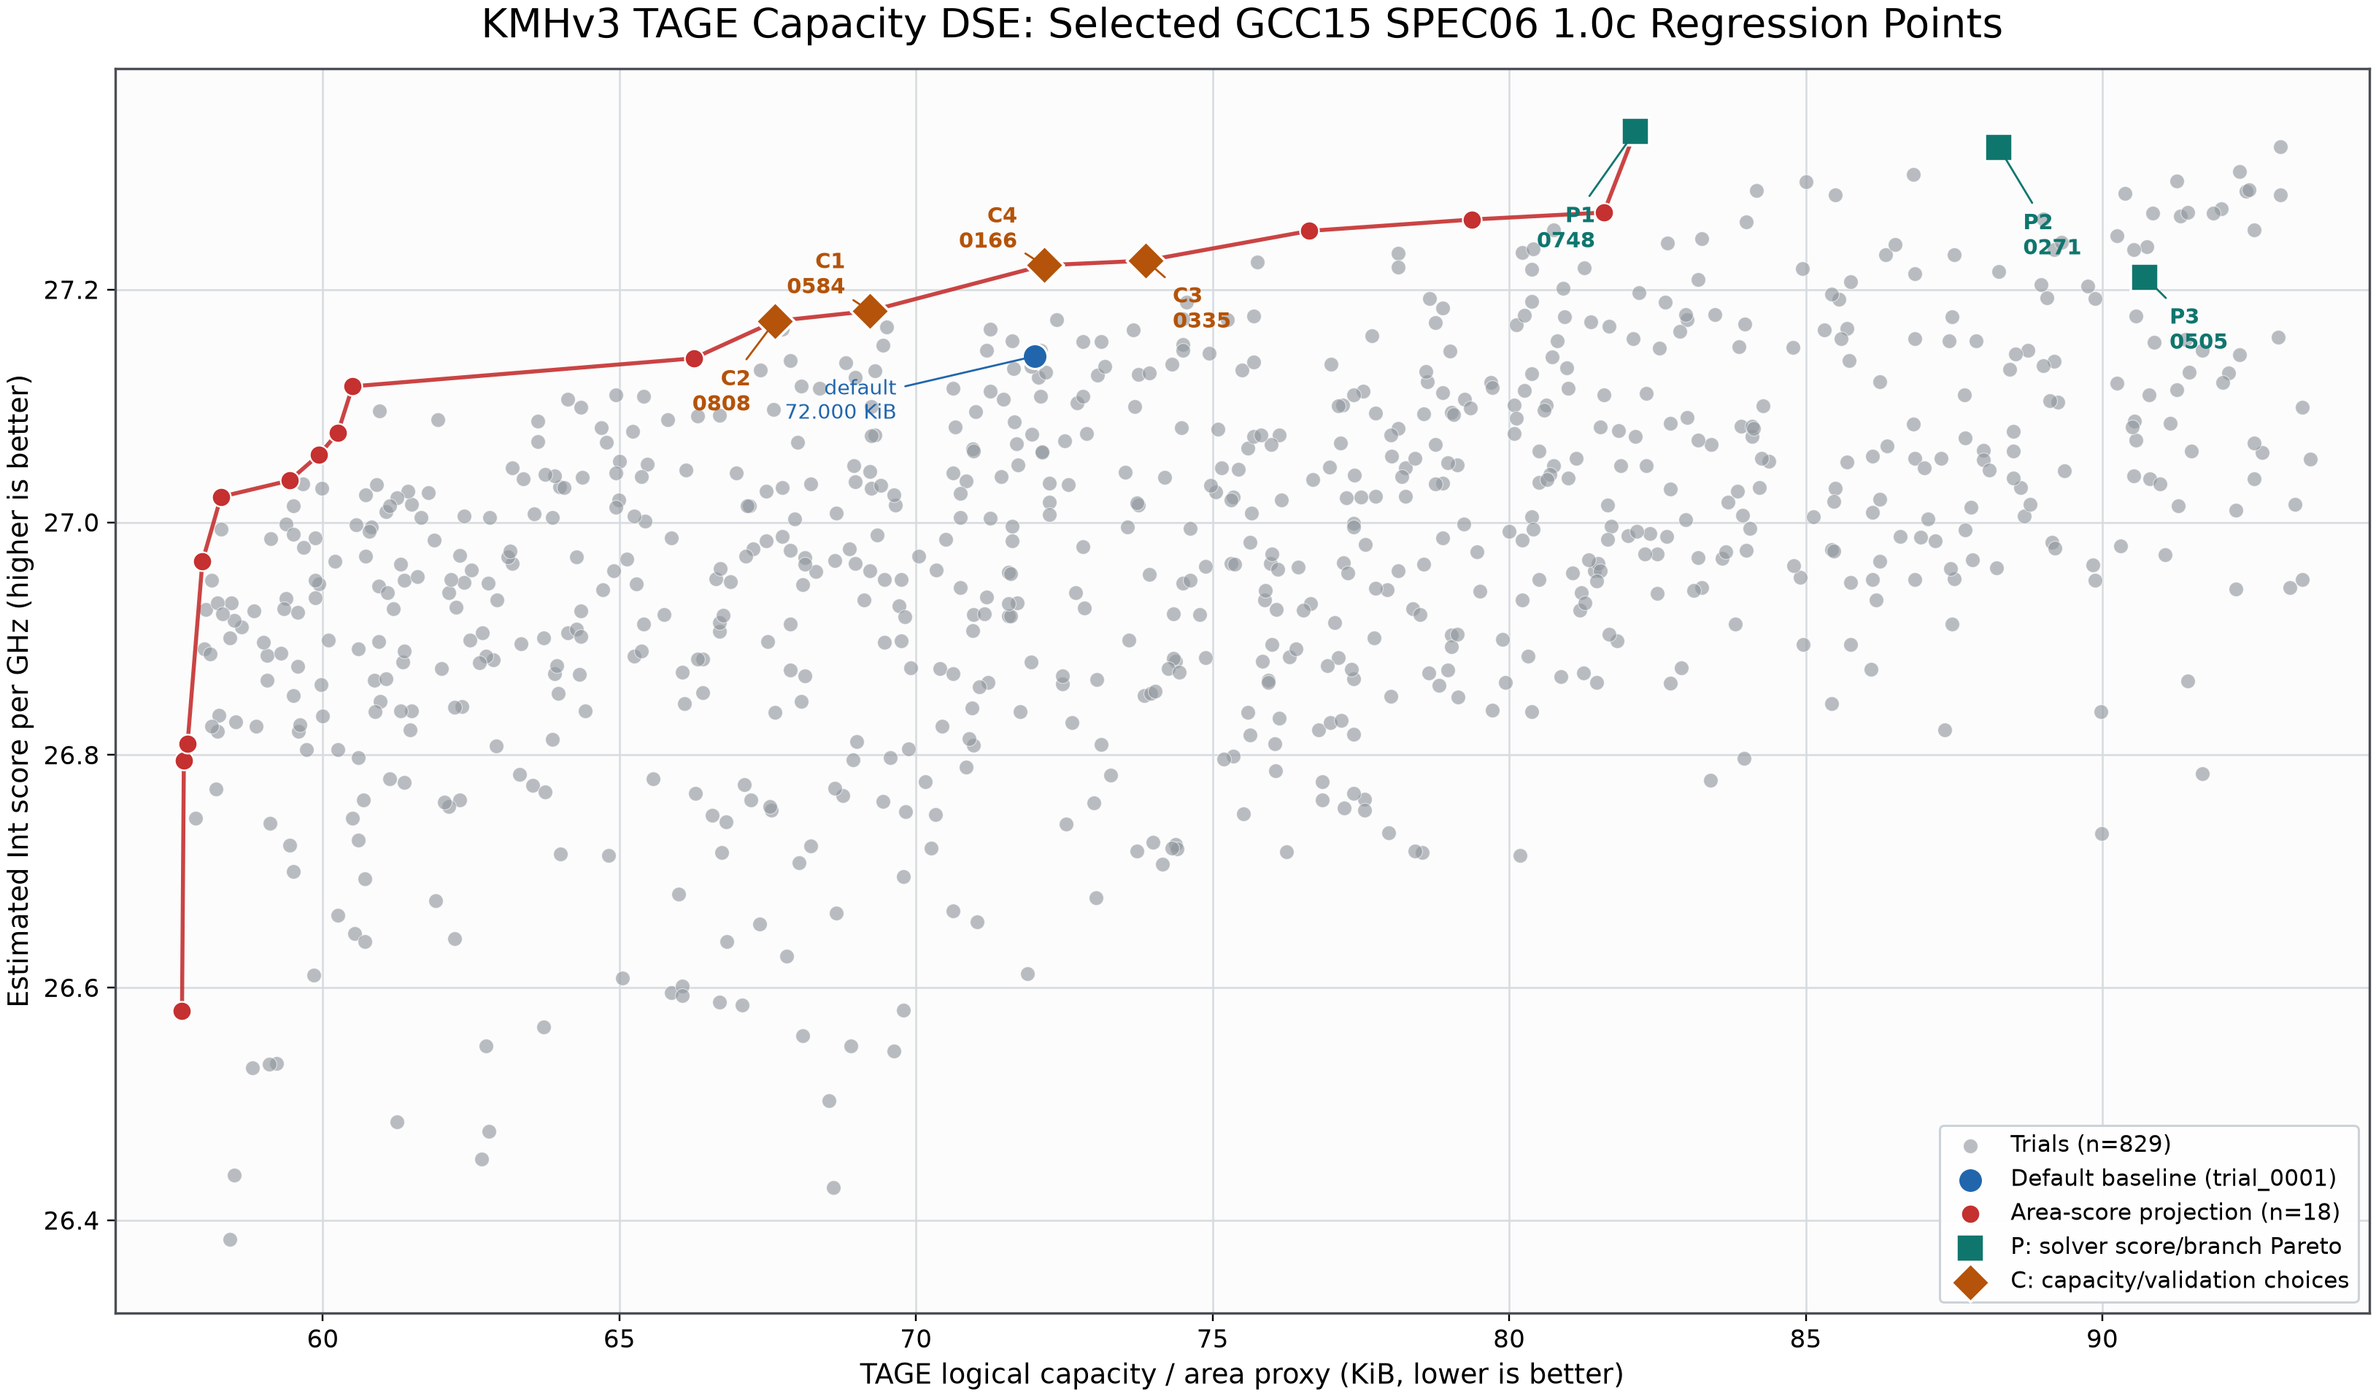
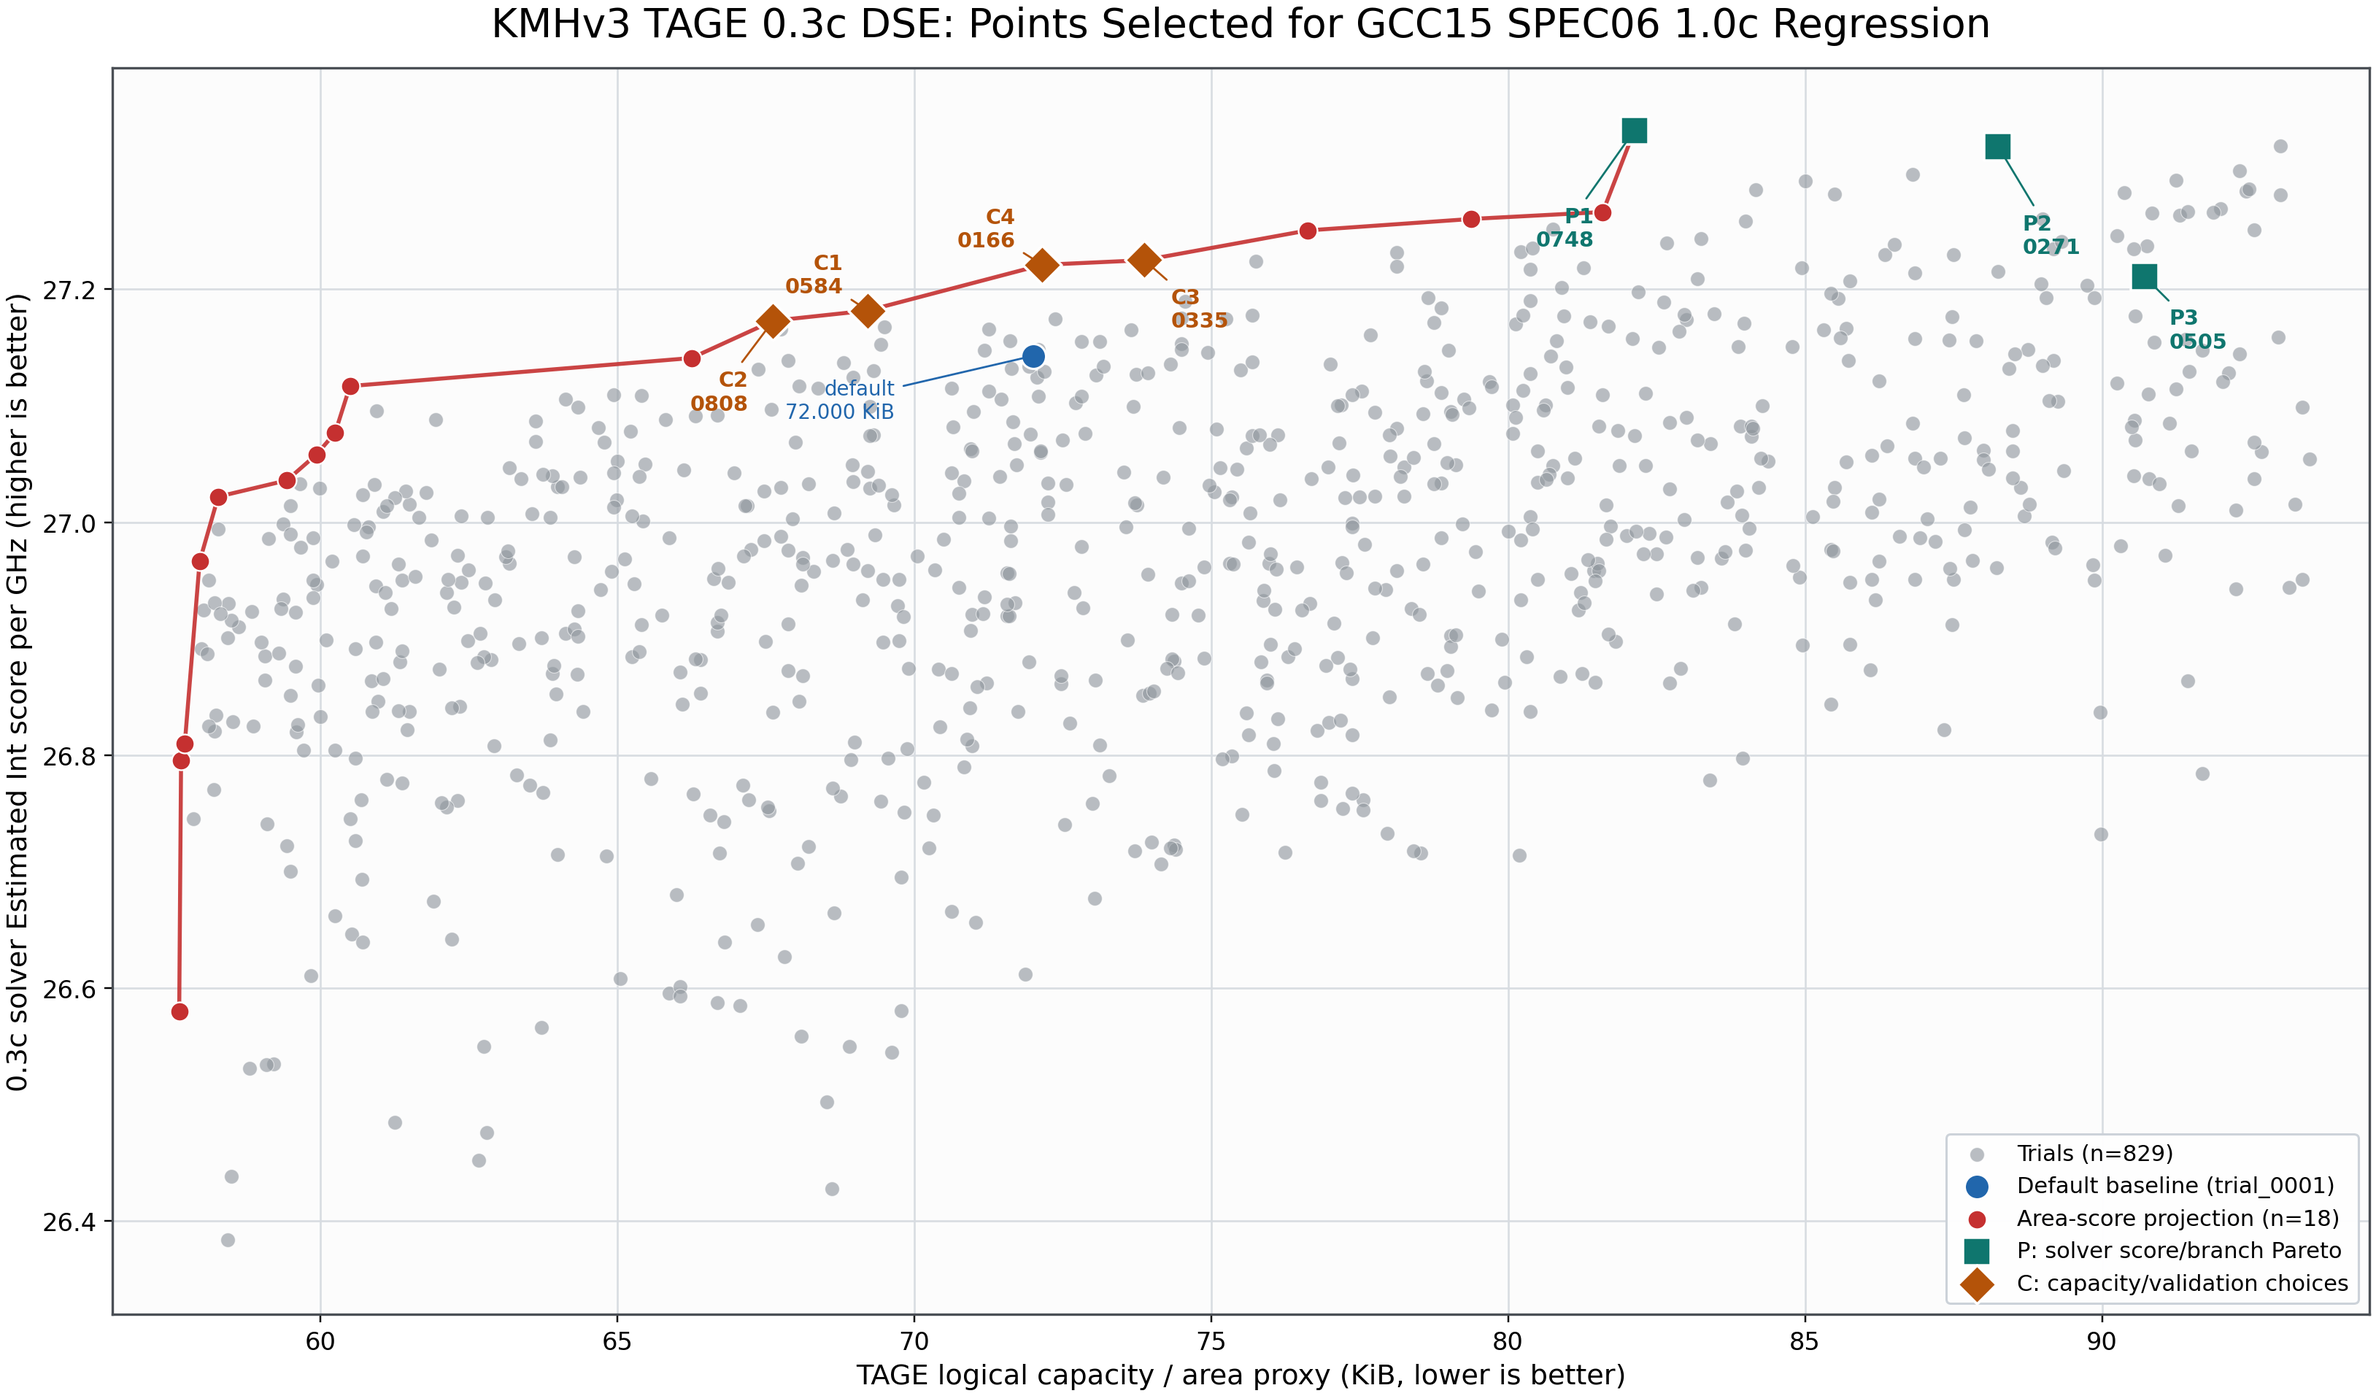
cpu: Audit TAGE SPECint selections
Validate formal Pareto labels, near-default ranking, and effective CI configuration.

diff --git a/docs/Gem5_Docs/frontend/generate_tage_capacity_8table_t2t4_selection_figure.py b/docs/Gem5_Docs/frontend/generate_tage_capacity_8table_t2t4_selection_figure.py
@@ -1,5 +1,5 @@
 #!/usr/bin/env python3
-"""Render the solver DSE plot with GCC15 SPEC06 1.0c regression selections."""
+"""Render 0.3c solver DSE points selected for GCC15 SPEC06 1.0c regression."""
 
 import argparse
 from dataclasses import dataclass
@@ -18,6 +18,12 @@ from generate_tage_capacity_8table_t2t4_dse_figures import (
 
 TEAL = "#0f766e"
 AMBER = "#b45309"
+EXPECTED_SCORE_BRANCH_PARETO = frozenset(
+    {"trial_0271", "trial_0505", "trial_0748"}
+)
+NEAR_BASELINE_MIN_KIB = 70.0
+NEAR_BASELINE_MAX_KIB = 75.0
+NEAR_BASELINE_SCORE_RANKS = {"C3": 0, "C4": 1}
 
 
 @dataclass(frozen=True)
@@ -44,7 +50,11 @@ SELECTIONS = (
 
 def selected_trials(trials: list[Trial]) -> list[tuple[Selection, Trial]]:
     by_id = {trial.trial_id: trial for trial in trials}
-    missing = [selection.trial_id for selection in SELECTIONS if selection.trial_id not in by_id]
+    missing = [
+        selection.trial_id
+        for selection in SELECTIONS
+        if selection.trial_id not in by_id
+    ]
     if missing:
         raise ValueError(f"selected trials missing from artifact: {missing}")
     if len({selection.label for selection in SELECTIONS}) != len(SELECTIONS):
@@ -54,15 +64,84 @@ def selected_trials(trials: list[Trial]) -> list[tuple[Selection, Trial]]:
     return [(selection, by_id[selection.trial_id]) for selection in SELECTIONS]
 
 
-def plot(trials: list[Trial], output_path: Path) -> None:
+def score_branch_pareto(trials: list[Trial]) -> set[str]:
+    return {
+        candidate.trial_id
+        for candidate in trials
+        if not any(
+            other is not candidate
+            and other.score >= candidate.score
+            and other.branch_mispredicts <= candidate.branch_mispredicts
+            and (
+                other.score > candidate.score
+                or other.branch_mispredicts < candidate.branch_mispredicts
+            )
+            for other in trials
+        )
+    }
+
+
+def validate_selection(trials: list[Trial]) -> list[tuple[Selection, Trial]]:
+    selections = selected_trials(trials)
+    selected_by_label = {selection.label: trial for selection, trial in selections}
+    formal_pareto = score_branch_pareto(trials)
+    if formal_pareto != EXPECTED_SCORE_BRANCH_PARETO:
+        raise ValueError(
+            "score/branch Pareto differs from audited artifact: "
+            f"{sorted(formal_pareto)}"
+        )
+    selected_pareto = {
+        trial.trial_id
+        for selection, trial in selections
+        if selection.category == "pareto"
+    }
+    if selected_pareto != formal_pareto:
+        raise ValueError("P labels do not match the formal score/branch Pareto set")
+
+    area_score = area_score_frontier(trials)
+    if len(area_score) != EXPECTED_AREA_SCORE_FRONTIER:
+        raise ValueError("capacity-score frontier differs from audited artifact")
+    area_score_ids = {trial.trial_id for trial in area_score}
+    capacity_selection_ids = {
+        trial.trial_id
+        for selection, trial in selections
+        if selection.category == "capacity"
+    }
+    if not capacity_selection_ids <= area_score_ids:
+        raise ValueError("C labels must be on the capacity-score projection")
+
+    near_baseline = sorted(
+        (
+            trial
+            for trial in trials
+            if not trial.is_baseline
+            and NEAR_BASELINE_MIN_KIB <= trial.capacity_kib <= NEAR_BASELINE_MAX_KIB
+        ),
+        key=lambda trial: (-trial.score, trial.trial_id),
+    )
+    for label, expected_rank in NEAR_BASELINE_SCORE_RANKS.items():
+        if (
+            len(near_baseline) <= expected_rank
+            or near_baseline[expected_rank].trial_id
+            != selected_by_label[label].trial_id
+        ):
+            raise ValueError(
+                f"{label} is not score rank #{expected_rank + 1} in the "
+                f"{NEAR_BASELINE_MIN_KIB:g}--{NEAR_BASELINE_MAX_KIB:g} KiB band"
+            )
+    return selections
+
+
+def plot(
+    trials: list[Trial],
+    selections: list[tuple[Selection, Trial]],
+    output_path: Path,
+) -> None:
     import matplotlib.pyplot as plt
 
     baseline = next(trial for trial in trials if trial.is_baseline)
     candidates = [trial for trial in trials if not trial.is_baseline]
     frontier = area_score_frontier(trials)
-    if len(frontier) != EXPECTED_AREA_SCORE_FRONTIER:
-        raise ValueError("capacity-score frontier differs from audited artifact")
-    selections = selected_trials(trials)
 
     fig, ax = plt.subplots(figsize=(14.8, 8.7), layout="constrained")
     fig.patch.set_facecolor("white")
@@ -164,12 +243,15 @@ def plot(trials: list[Trial], output_path: Path) -> None:
         zorder=10,
     )
     ax.set_title(
-        "KMHv3 TAGE Capacity DSE: Selected GCC15 SPEC06 1.0c Regression Points",
+        "KMHv3 TAGE 0.3c DSE: Points Selected for GCC15 SPEC06 1.0c Regression",
         fontsize=18,
         pad=14,
     )
     ax.set_xlabel("TAGE logical capacity / area proxy (KiB, lower is better)", fontsize=12.5)
-    ax.set_ylabel("Estimated Int score per GHz (higher is better)", fontsize=12.5)
+    ax.set_ylabel(
+        "0.3c solver Estimated Int score per GHz (higher is better)",
+        fontsize=12.5,
+    )
     ax.set_xlim(56.5, 94.5)
     ax.set_ylim(26.32, 27.39)
     ax.legend(loc="lower right", frameon=True, framealpha=0.97, edgecolor="#cbd1d8")
@@ -199,10 +281,7 @@ def main() -> None:
     args = parser.parse_args()
 
     trials = read_trials(args.artifact_dir)
-    frontier = area_score_frontier(trials)
-    if len(frontier) != EXPECTED_AREA_SCORE_FRONTIER:
-        raise ValueError("capacity-score frontier differs from audited artifact")
-    selections = selected_trials(trials)
+    selections = validate_selection(trials)
     if args.verify_only:
         labels = ", ".join(
             f"{selection.label}={trial.trial_id}"
@@ -210,10 +289,10 @@ def main() -> None:
         )
         print(
             f"audited {len(trials)} valid trials; "
-            f"area-score frontier: {len(frontier)}; selections: {labels}"
+            f"area-score frontier: {EXPECTED_AREA_SCORE_FRONTIER}; selections: {labels}"
         )
         return
-    plot(trials, args.output)
+    plot(trials, selections, args.output)
     print(f"output={args.output}")
 
 

diff --git a/docs/Gem5_Docs/frontend/generate_tage_capacity_8table_t2t4_dse_figures.py b/docs/Gem5_Docs/frontend/generate_tage_capacity_8table_t2t4_dse_figures.py
@@ -10,6 +10,7 @@ from pathlib import Path
 
 BASELINE_CAPACITY_BITS = 589_824
 SCORE_COLUMN = "max:score_txt:Estimated Int score per GHz"
+BRANCH_MISPREDICT_COLUMN = "min:stats:system.cpu.iew.branchMispredicts"
 EXPECTED_VALID_TRIALS = 830
 EXPECTED_AREA_SCORE_FRONTIER = 18
 
@@ -23,6 +24,7 @@ class Trial:
     trial_id: str
     is_baseline: bool
     score: float
+    branch_mispredicts: float
     capacity_bits: int
 
     @property
@@ -55,6 +57,7 @@ def read_trials(artifact_dir: Path) -> list[Trial]:
                     trial_id=row["trial_id"],
                     is_baseline=is_baseline,
                     score=float(row[SCORE_COLUMN]),
+                    branch_mispredicts=float(row[BRANCH_MISPREDICT_COLUMN]),
                     capacity_bits=(
                         BASELINE_CAPACITY_BITS
                         if is_baseline

diff --git a/docs/Gem5_Docs/frontend/tage_capacity_8table_t2_t4_nsga2_dse_20260821.md b/docs/Gem5_Docs/frontend/tage_capacity_8table_t2_t4_nsga2_dse_20260821.md
@@ -23,9 +23,10 @@
   容量只是此图的 area proxy，不是本次 NSGA-II 目标；红点不能被称为 solver 的
   score/mispredict 前沿。图像已核对为当前仓库
   `tage-capacity-8table-t2t4-dse-2d-20260821.png` 的同一文件。
-- 新搜索固定为 8 张 active TAGE 表，使用 35 个受 TAGE 参数影响的 0.3c slice，
-  比上一次的 22 个 `astar,gobmk,sjeng` slice 多出 13 个
-  `bzip2,gcc,h264ref,perlbench` slice。T2--T4 被设为至少占逻辑容量 50%，
+- 新搜索固定为 8 张 active TAGE 表，使用 35 个受 TAGE 参数影响的 0.3c slice。
+  相比上一轮的 22 个 slice，数量增加 13；`gobmk` 仍为 14 个，但 `astar/sjeng`
+  的构成从 `4/4` 重选为 `5/3`，所以这不是旧 22 个 slice 的严格追加。在此基础上
+  引入了 13 个 `bzip2,gcc,h264ref,perlbench` slice。T2--T4 被设为至少占逻辑容量 50%，
   并获得更高的采样和局部变异优先级；这是一项搜索先验，不是 T2--T4 因果有效的
   证明。
 
@@ -49,7 +50,8 @@ execute-stage 分支错误预测计数；不改编译器、二进制、OS 或运
 相对 [前一轮报告](tage_capacity_nsga2_dse_20260814.md)，这轮变化如下：
 
 1. active table 数从可变空间收缩为固定 8 张表。
-2. workload 从 22 个 `astar,gobmk,sjeng` slice 扩展到 35 个 slice。
+2. workload 由 22 个 `astar,gobmk,sjeng` slice 重选并扩展为 35 个 slice；
+   `astar/sjeng` 构成也由 `4/4` 变为 `5/3`。
 3. 总逻辑容量区间改为 baseline 的 80%--130%，并将 T2--T4 合计容量限制为至少
    50%。
 4. T2--T4 的 sets 可从 `2^7` 到 `2^13`，其余表为 `2^6` 到 `2^11`；变异中 65%
@@ -158,9 +160,10 @@ system.cpu[0].branchPred.tage.numWays
 overlay 可以只覆盖这四个参数，不会改变其他 KMHv3 配置。所有下面 vector 的顺序
 均为 T0 到 T7，且 `numPredictors=8`。
 
-除了三个正式帕累托点，下表加入两个容量-分数投影上的候选。它们不在 solver 的
-score/mispredict 前沿，却在不增大容量的约束下仍优于 baseline，适合作为 1.0c
-泛化验证的低成本对照点。
+除了三个正式帕累托点，下表加入四个容量-分数投影上的候选。C1/C2 用于较小容量的
+对照；C3/C4 则在 70--75 KiB 内按 solver score 排名第 1/2，分别测试该区间的性能
+上界和最接近默认容量的选择。它们不在 solver 的 score/mispredict 前沿，不能被称为
+正式帕累托点。
 
 | 候选 / 用途 | `numPredictors` | `tableSizes` | `TTagBitSizes` | `numWays` | 容量 / T2--T4 share |
 | --- | ---: | --- | --- | --- | --- |
@@ -169,10 +172,13 @@ score/mispredict 前沿，却在不增大容量的约束下仍优于 baseline，
 | P3 `trial_0505`，错误预测极值 | 8 | `[1024, 256, 4096, 4096, 2048, 2048, 256, 512]` | `[15, 11, 8, 11, 17, 18, 14, 13]` | `[2, 1, 4, 3, 4, 2, 1, 1]` | 90.719 KiB / 79.37% |
 | C1 `trial_0584`，低于 baseline 容量的最高 score | 8 | `[128, 1024, 4096, 2048, 512, 1024, 256, 1024]` | `[15, 10, 8, 20, 13, 19, 14, 17]` | `[8, 1, 3, 2, 8, 5, 1, 3]` | 69.219 KiB / 59.23% |
 | C2 `trial_0808`，更低容量且 score/mispredict 均改善 | 8 | `[256, 1024, 2048, 2048, 2048, 1024, 512, 512]` | `[15, 13, 13, 17, 18, 15, 15, 13]` | `[5, 1, 4, 2, 3, 5, 1, 2]` | 67.625 KiB / 68.39% |
+| C3 `trial_0335`，70--75 KiB score #1 | 8 | `[128, 1024, 2048, 2048, 1024, 1024, 512, 1024]` | `[15, 13, 19, 8, 13, 18, 15, 17]` | `[8, 1, 4, 1, 8, 5, 1, 3]` | 73.875 KiB / 61.25% |
+| C4 `trial_0166`，最接近默认、同区间 score #2 | 8 | `[256, 256, 2048, 4096, 2048, 2048, 1024, 2048]` | `[15, 18, 16, 11, 18, 11, 13, 13]` | `[2, 3, 2, 3, 3, 2, 2, 1]` | 72.156 KiB / 71.72% |
 
 相对 solver baseline，C1 的 score 为 `+0.1432%`、错误预测为 `-1.0607%`，容量
-为 `-3.8628%`；C2 的对应变化为 `+0.1111%`、`-1.6314%` 和 `-6.0764%`。它们的
-选择原因是容量-性能取舍，不应误写成正式二目标帕累托结论。
+为 `-3.8628%`；C2 的对应变化为 `+0.1111%`、`-1.6314%` 和 `-6.0764%`。C3/C4 的
+score 分别为 `+0.3027%` 和 `+0.2878%`，错误预测分别为 `-1.5309%` 和 `-1.4715%`；
+它们的选择原因是容量-性能取舍，不应误写成正式二目标帕累托结论。
 
 用于命令行或 `manual-perf.yml` 的单个候选 overlay 形式如下，其中方括号中的值由
 上表对应行替换：
@@ -235,6 +241,10 @@ point 子集都与从
 `spec06_gcc15_rv64gcb_base_260604/json/checkpoints_all.json` 导出的 whitelist
 完全匹配；每个 workload 内先归一化 SimPoint 权重，再按 profile 的 instruction
 count 聚合多个输入。
+
+对五个已完成候选，各 archive 的 `astar_biglakes_8418/m5out/config.ini` 还逐一
+核对了 `numPredictors`、`tableSizes`、`TTagBitSizes` 与 `numWays` 四个生效字段，
+均与上表对应行一致；这比仅从 `metadata.txt` 读取请求的 `extra_args` 更强。
 
 | 标签 | Trial | Actions run | Archive | 归档/Actions 状态 |
 | --- | --- | --- | --- | --- |
@@ -338,7 +348,9 @@ gh workflow run manual-perf.yml \
 
 两条 run 完成后，仍按 baseline 对应的 35 workload / 697 point whitelist 重聚合，并
 要求运行 archive 对 12 个实际 benchmark 有 697 `stats.txt` 和 `completed`、零
-`running`/`abort`、非空 `score.txt`，才将 C3/C4 加入上面的实测表。
+`running`/`abort`、非空 `score.txt`。在加入实测表前，还必须从每条 run 的一个完成
+切片 `m5out/config.ini` 核对四个 TAGE 字段与“求解结果到 gem5 参数的映射”中 C3/C4
+对应行完全一致；仅有 `metadata.txt` 的请求参数不足以证明最终 SimObject 配置。
 
 ## 边界与复现
 
@@ -367,8 +379,9 @@ gh workflow run manual-perf.yml \
   ```
 - 本节的 P1--P3/C1--C4 覆盖图由
   [`generate_tage_capacity_8table_t2t4_selection_figure.py`](generate_tage_capacity_8table_t2t4_selection_figure.py)
-  生成。它复用上述 artifact 审计，并额外要求全部七个选择标签指向唯一的实际 trial；
-  无 `matplotlib` 时可运行：
+  生成。它复用上述 artifact 审计，并额外验证 P1--P3 恰为正式 score/branch
+  Pareto 集、C1--C4 位于容量-分数投影、C3/C4 是 70--75 KiB 中的 score #1/#2；无
+  `matplotlib` 时可运行：
 
   ```bash
   python3 docs/Gem5_Docs/frontend/generate_tage_capacity_8table_t2t4_selection_figure.py \
